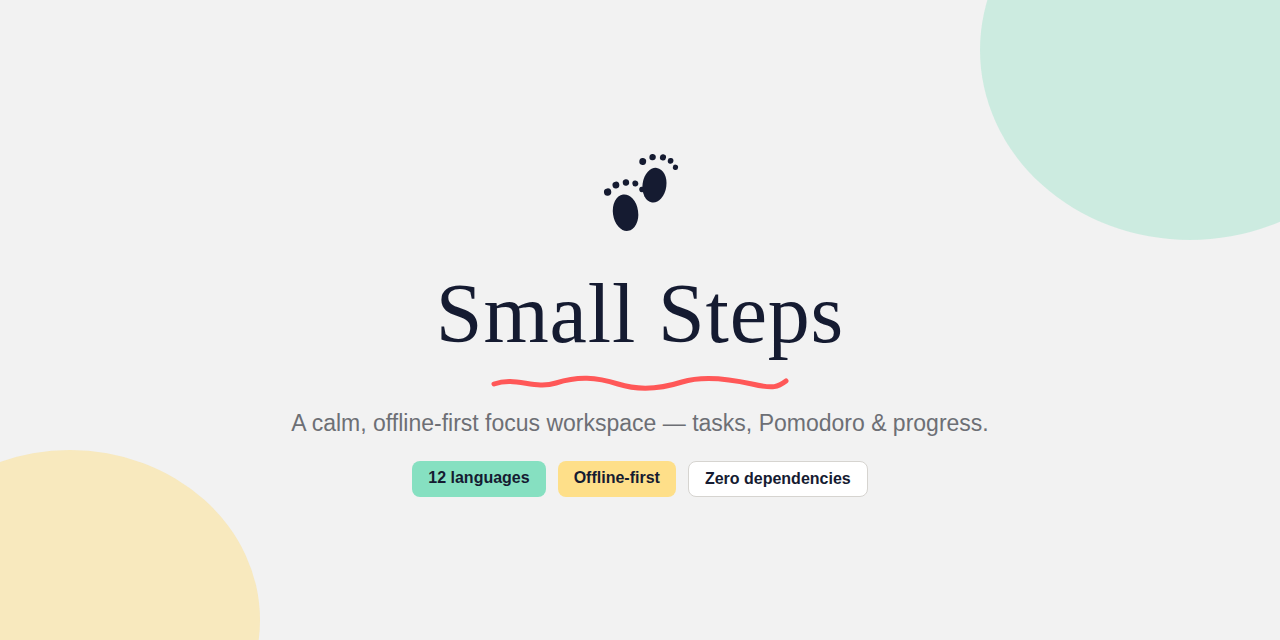
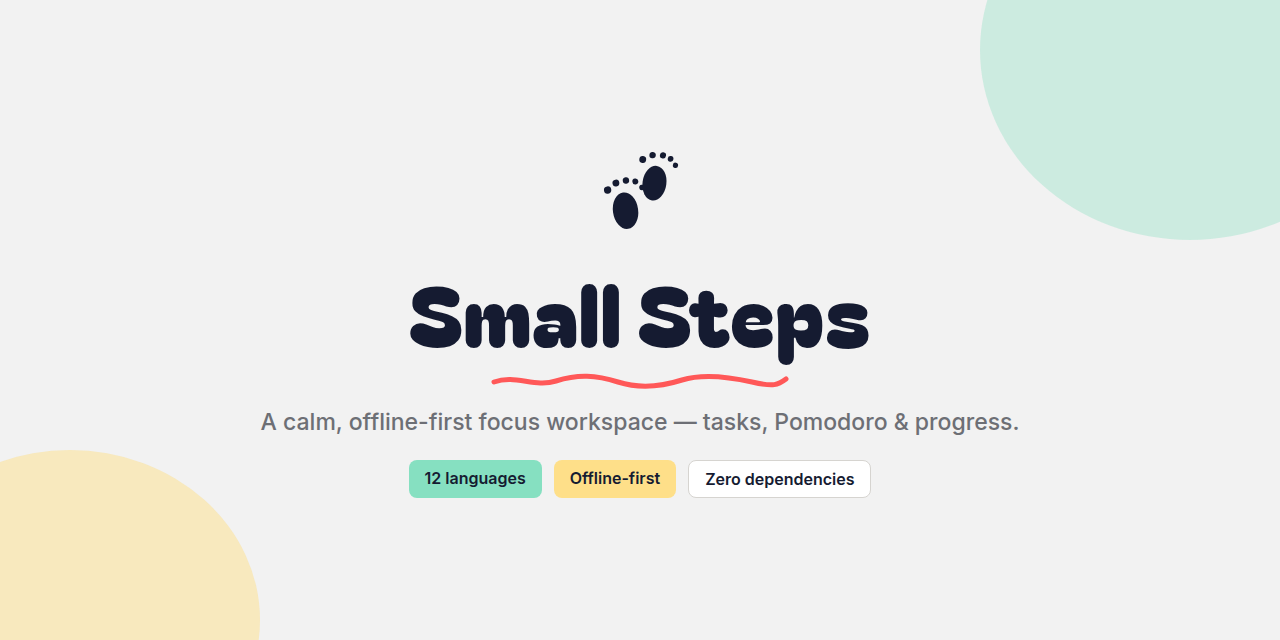
fix: dark-theme mint button contrast, regenerate splash & social assets (3.5.1)
- Active focus/repeat buttons now use inkwell-navy glyphs on mint in all
  themes (were near-white in dark mode)
- Regenerated all Android splash PNGs and social-preview.png: wordmark
  now renders in Bagel Fat One (asset generator fell back to a serif
  via CORS-blocked @font-face) and images are correctly sized (stale
  cache served an old render at wrong scale)
- Bumped version to 3.5.1 (versionCode 30501), SW cache, changelog

diff --git a/style.css b/style.css
@@ -663,18 +663,19 @@ button, .chip, .icon-btn, .icon-button { touch-action: manipulation; }
 .prio-btn[data-level="2"] { color: var(--gold); }
 .prio-btn[data-level="3"] { color: var(--danger); }
 
-/* Recurrence button (v3.2) */
+/* Recurrence button (v3.2) — mint fill is theme-invariant, so the
+   glyph stays fixed navy for contrast in every theme */
 .repeat-btn { color: var(--muted); }
-.repeat-btn.is-active { color: var(--ink); background: var(--green); }
+.repeat-btn.is-active { color: #151b31; background: var(--green); }
 .repeat-pill { color: var(--ink); }
 .due-pill { color: var(--danger); }
 .task.prio-1 { border-inline-start: 3px solid var(--muted); }
 .task.prio-2 { border-inline-start: 3px solid var(--gold); }
 .task.prio-3 { border-inline-start: 3px solid var(--danger); }
 
-/* Focus task button */
+/* Focus task button — same invariant-mint rule as above */
 .focus-btn { font-size: 1.05rem; }
-.focus-btn.is-active { color: var(--ink); background: var(--green); }
+.focus-btn.is-active { color: #151b31; background: var(--green); }
 .task-meta { flex: none; display: flex; align-items: center; gap: 6px; }
 .focus-pill {
   padding: 3px 9px; border-radius: 8px;

diff --git a/sw.js b/sw.js
@@ -7,7 +7,7 @@
    ============================================================ */
 /* Sürüm notu: app.js / style.css / translations.js değişirse bu adımı
    güncelle — aksi halde eski önbellek yeni kullanıcılara ulaşmaz. */
-const CACHE = "minik-adimlar-v3.5.0";
+const CACHE = "minik-adimlar-v3.5.1";
 
 const ASSETS = [
   "./",

diff --git a/CHANGELOG.md b/CHANGELOG.md
@@ -1,5 +1,14 @@
 # Changelog
 
+## 3.5.1 — 2026-10-28
+
+Patch release fixing two visual defects found in the 3.5.0 redesign. No functional changes.
+
+### Fixed
+
+- **Dark theme button contrast:** the active Focus and Repeat buttons on mint background now use inkwell-navy glyphs in every theme (they were near-white in dark mode).
+- **Generated assets:** all Android splash screens and the social preview card were regenerated — the "Small Steps" wordmark now renders in Bagel Fat One (a font-loading issue in the asset generator had silently fallen back to a generic serif, and a stale-cache issue had mis-scaled some images).
+
 ## 3.5.0 — 2026-10-28
 
 New look: the whole app is redesigned around a doodled-planner visual system — warm paper canvas, inkwell-navy workhorse color, and mint / butter / coral as small functional accents. A new minimal footprints logo replaces the sprout everywhere. No behavior changed: tasks, timer, history, backups and shortcuts work exactly as before.

diff --git a/README.md b/README.md
@@ -9,7 +9,7 @@ Zero dependencies · 12 languages · Installable PWA · Your data never leaves y
 
 <br/>
 
-[![Version](https://img.shields.io/badge/version-3.5.0-151b31?style=flat-square)](../../releases)
+[![Version](https://img.shields.io/badge/version-3.5.1-151b31?style=flat-square)](../../releases)
 [![Android APK](https://img.shields.io/badge/Android-APK-3ddc84?style=flat-square&logo=android&logoColor=white)](../../releases)
 [![CI](https://img.shields.io/badge/CI-passing-151b31?style=flat-square)](../../actions)
 [![PWA](https://img.shields.io/badge/PWA-installable-5a0fc8?style=flat-square)](#-pwa-installation)
